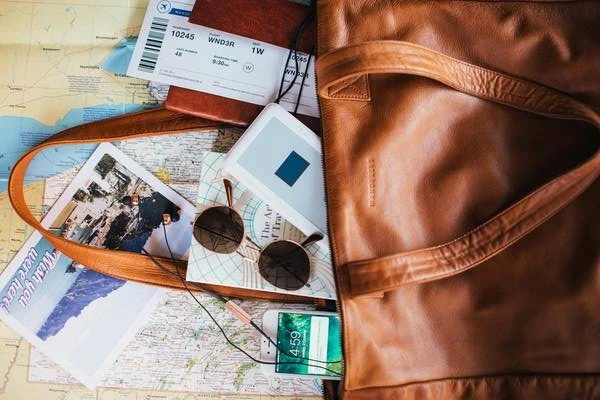
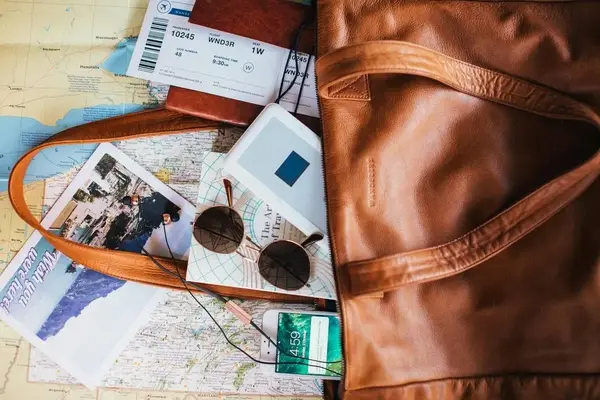
refacroring

diff --git a/src/css/style-main.css b/src/css/style-main.css
@@ -4,7 +4,6 @@
 :root {
   --color-bg: #fff;
   --color-text: #333;
-  --color-link-hover: #d9f0ff;
   --color-accent: #e2c82f;
   --color-header-footer: #fff;
   --color-breadcrumb: gray;
@@ -25,7 +24,6 @@ html {
   scroll-behavior: smooth;
   overscroll-behavior: none;
   height: 100%;
-  display: flex;
   flex-direction: column;
 }
 
@@ -45,19 +43,12 @@ img {
 }
 
 /* ======================================
-   リンクスタイル (main 内)
+   リンクスタイル (ベース)
 ====================================== */
 main a {
   font-weight: 500;
-  color: var(--color-link);
   text-decoration: none;
-  border-radius: 8px;
   transition: background-color 0.3s ease, transform 0.2s ease;
-}
-
-main a:hover {
-  background-color: var(--color-link-hover);
-  transform: translateY(-2px);
 }
 
 /* ======================================
@@ -127,22 +118,19 @@ main {
    ヘッダー直下メッセージ
 ====================================== */
 .top_message {
-  margin-top: var(--header-h); /* ← header分下げる */
+  margin-top: var(--header-h);
   min-height: var(--topmsg-h);
-
   width: 100%;
   padding: 10px 16px;
   font-size: 14px;
   line-height: 1.4;
   text-align: center;
-
   background: var(--color-bland-light);
   color: var(--color-bland);
-
   border-top: 3px solid var(--color-bland);
   border-bottom: 1px solid #e0e0e0;
-
   box-sizing: border-box;
+  word-break: break-word;
 }
 
 /* ======================================
@@ -204,20 +192,6 @@ main {
   font-size: 1.5rem;
   font-weight: bold;
   cursor: pointer;
-}
-
-.top_message {
-  margin-top: var(--header-h);
-  width: 100%;
-  padding: 10px 16px;
-  font-size: 14px;
-  text-align: center;
-  background: #f6fbf9;
-  color: var(--color-bland);
-  border-top: 3px solid var(--color-bland);
-  border-bottom: 1px solid #e0e0e0;
-  box-sizing: border-box;
-  word-break: break-word;
 }
 
 /* モバイルナビ */
@@ -346,30 +320,4 @@ main {
   color:var(--color-header-footer-link);
   border-left:4px solid var(--color-header-footer-link); 
   padding-left:10px;
-}
-
-/**
-もっとみる
-*/
-.more-link-wrapper{
-  text-align:center;
-  margin:20px 0 40px;
-}
-
-.more-link{
-  display:inline-block;
-  padding:10px 22px;
-  font-size:14px;
-  font-weight:500;
-  color:#444;
-  background:#fff;
-  border:1px solid #ddd;
-  border-radius:20px;
-  text-decoration:none;
-  transition:all .25s ease;
-}
-
-.more-link:hover{
-  background:#f5f5f5;
-  border-color:#bbb;
 }

diff --git a/src/css/style-home.css b/src/css/style-home.css
@@ -77,6 +77,32 @@ h1 img {
     color: #ffffff;
 }
 
+/* =============
+   もっとみる
+================ */
+.more-link-wrapper{
+  text-align:center;
+  margin:20px 0 40px;
+}
+
+.more-link{
+  display:inline-block;
+  padding:10px 22px;
+  font-size:14px;
+  font-weight:500;
+  color:var(--color-text);
+  background:var(--color-bg);
+  border:1px solid #ddd;
+  border-radius:20px;
+  text-decoration:none;
+  transition:all .25s ease;
+}
+
+.more-link:hover{
+  background:#f5f5f5;
+  border-color:#bbb;
+}
+
 /* =====================
    スマホ
 ===================== */
